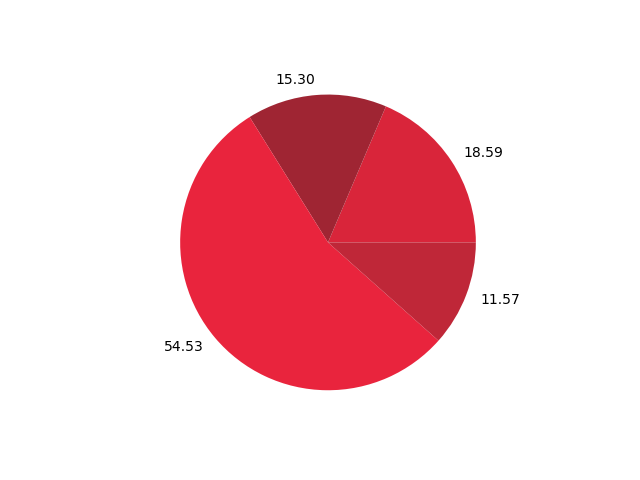
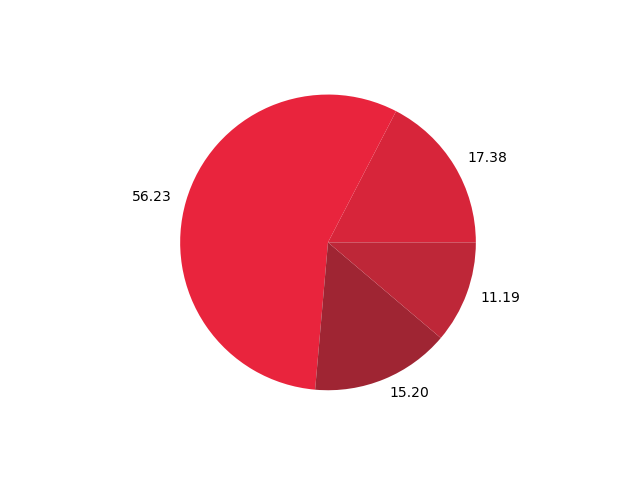
mod, adding analysis_class

diff --git a/analysis_class/class_sample.py b/analysis_class/class_sample.py
@@ -1,0 +1,139 @@
+import os 
+import math
+from PIL import Image
+
+
+class Analysis:
+
+    # For all instances
+    # Adding headers to the lists of results
+    distSum, distPerc = ["px_found"], ["(%)"]
+    fname = ["Image"]
+    
+    " Initialize the programme "
+
+    def __init__(self, path,plant,sample,limit):
+        self.path = path
+        self.img_path = f"{self.path}images\\"
+        self.plant = plant
+        self.sample = sample
+        self.limit = limit
+        # Walking through the filenames
+        self.img_files = next(os.walk(self.img_path))[2]
+        
+    
+    def __init_image(self,fname,mode=None):
+        """ Opening new image file & getting attributes. 
+        Warning: After calling this, you have to close the file! """
+        self.image = Image.open(fname).convert(mode)
+        self.pix = self.image.load()
+        self.width, self.height = self.image.size
+        self.imsize = self.width*self.height
+    
+
+    " METHOD type:1 "
+
+    " Make directory if not exists "
+    
+    def mkdirIfNotExists(self, folderPath):
+        if os.path.exists(folderPath) == False:
+            os.mkdir(folderPath)
+        else:
+            pass
+    
+    " Get percent "
+    
+    def percent(self, elem):
+        return format(elem/self.imsize*100,'.2f')
+
+    # You can add more method here ...
+
+
+    " METHOD type:2 "
+    
+    " 1. Method: Euclidean distance "
+    
+    def __euclidean(self, px):
+        res, channel = 0, 3 # R-G-B
+        for i in range(channel):
+            res = res + (self.sample[i]-px[i])**2
+        return math.sqrt(res)
+
+    def distance(self):
+        db = 0
+        for i in range(self.width):
+            for j in range(self.height):
+                if self.__euclidean(self.pix[i,j])<=self.limit:
+                    db += 1
+        return db
+
+    # You can add more method here ...
+    
+    
+    " RUN ANALYSIS "
+
+    def run_analysis(self):
+        
+        for f in self.img_files:
+
+            " New image "
+            
+            self.__init_image(self.img_path+f)
+
+            " Execute methods "
+             
+            self.distSum.append(self.distance()) # amount of relevant pixels
+            self.distPerc.append(self.percent(self.distance())) # %
+            
+            # You can add more method to run here ...
+            
+            " Handling image file "
+
+            self.fname.append(f) # filename
+            self.image.close()
+
+        " lists of datas -> as columns " 
+
+        self.res_data = (
+            self.fname,
+            self.distSum, 
+            self.distPerc 
+            
+            # Add more results/list here ...
+        ) 
+        
+        return self.result_table()
+    
+
+    " OUTPUT -> TEXTFILE "
+
+    # Table of results
+    
+    def result_table(self):
+        resdir = f"{self.path}\\results\\" 
+        self.mkdirIfNotExists(resdir)
+        tabla = f"{resdir}results.txt"
+        res = open(tabla,"a+")
+        res.write(f"Plant type: {self.plant}\n")
+        for i in range(len(self.img_files) + 1): # + 1: for header
+            for m in self.res_data:
+                res.write(f"{str(m[i])}\t")
+            res.write("\n")
+        res.close
+
+    # You can add here more output formats, charts etc...
+
+
+if __name__ == "__main__":
+    
+    " Input "
+    
+    path = "c:\\Python\\Python38-32\\myprojects\\analysis_class\\"  
+    plant = "Colza"
+    sample = (93,118,106)
+    limit = 25
+    
+    " Process "
+
+    a = Analysis(path,plant,sample,limit)
+    a.run_analysis()

diff --git a/pixel_analysis/clustering.py b/pixel_analysis/clustering.py
@@ -85,7 +85,7 @@ class Clustering():
                 self.percent.append(format(j*100,'.2f'))   
         
         plt.pie(self.percent,colors=np.array(self.centers/255),labels=self.percent)
-        plt.savefig(f"c:\\Python\\Python38-32\\portfolio_github\\pixel_analysis\\result\\cls_result")
+        plt.savefig(f"c:\\Python\\Python38-32\\myprojects\\pixel_analysis\\result\\cls_result")
         
         # Results <- round down!
         return self.centers.astype(int)  
@@ -94,8 +94,8 @@ class Clustering():
 if __name__ == "__main__":
 
     # Path of the image, set your own here!
-    img = "c:\\Python\\Python38-32\\portfolio_github\\pixel_analysis\\infra.png"
-    # Set the numbers of clusters - minimum cluster: 0, which means invalid input replace with 1!
+    img = "c:\\Python\\Python38-32\\myprojects\\pixel_analysis\\infra.png"
+    # Set the numbers of clusters - minimum cluster: 1, which means n<1 inputs replace with 1!
     clusters = 4
 
     cl = Clustering(img,clusters)
